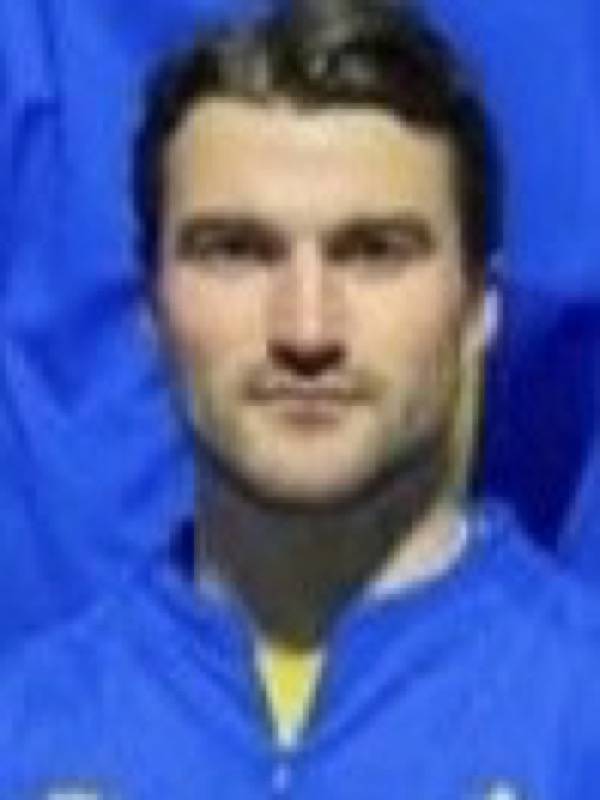
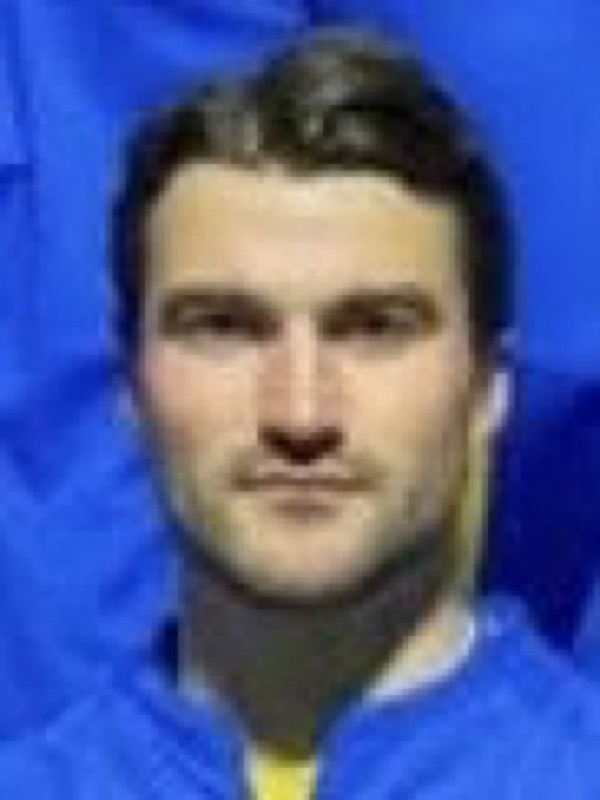
upd kamptropp bane visning kort

diff --git a/assets/js/pages/matches.js b/assets/js/pages/matches.js
@@ -776,6 +776,104 @@ function getMatchGamePlanPositionBadgeLabel(posId) {
     return posId;
 }
 
+function getMatchDetailPositionCategory(pos1) {
+    if (!pos1) return null;
+    const normalized = String(pos1).trim();
+    if (normalized === 'Keeper' || normalized.toLowerCase().includes('keeper')) return 'K';
+    if (['Høyre bekk', 'Venstre bekk', 'Høyre stopper', 'Venstre stopper'].includes(normalized)) return 'F';
+    if (['Spiss', 'Høyre kant', 'Venstre kant'].includes(normalized)) return 'A';
+    return 'M';
+}
+
+function getMatchDetailAttendingPlayers(match) {
+    const teamPlayers = (window.activePlayers || [])
+        .filter(p => p.status !== 'Passiv' && (!match.matchGroup || p.spillerLag === match.matchGroup))
+        .sort((a, b) => (Number(a.drakt) || 999) - (Number(b.drakt) || 999) || a.navn.localeCompare(b.navn));
+    const attendingRefs = typeof window.getMatchParticipantRefs === 'function'
+        ? window.getMatchParticipantRefs(match)
+        : window.getAttendingPlayerRefs(match.attendance);
+    const benchPlayers = teamPlayers
+        .filter(p => attendingRefs.some(ref => window.playerRefMatches(ref, p)))
+        .sort((a, b) => (Number(a.drakt) || 999) - (Number(b.drakt) || 999) || a.navn.localeCompare(b.navn));
+    const fallbackBenchPlayers = attendingRefs
+        .filter(ref => !benchPlayers.some(p => window.playerRefMatches(ref, p)))
+        .sort((a, b) => window.getPlayerNameFromRef(a).localeCompare(window.getPlayerNameFromRef(b)))
+        .map(ref => ({ navn: window.getPlayerNameFromRef(ref), drakt: '' }));
+
+    return [...benchPlayers, ...fallbackBenchPlayers];
+}
+
+function getMatchGamePlanPlayerPitchPosId(match, player) {
+    const lineup = getMatchGamePlanDraftLineup(match);
+    const entry = Object.entries(lineup).find(([, lineupPlayer]) => matchGamePlanSamePlayer(lineupPlayer, player));
+    return entry ? entry[0] : '';
+}
+
+function buildMatchBenchPlayerHtml(match, player) {
+    const jersey = player.drakt ? `#${escapeMatchHtml(player.drakt)}` : '';
+    const lastName = getMatchGamePlanPlayerLastName(player);
+    const photoUrl = getMatchGamePlanPlayerPhotoUrl(player);
+    const pitchPosId = getMatchGamePlanPlayerPitchPosId(match, player);
+    const isOnPitch = Boolean(pitchPosId);
+    const pitchCode = isOnPitch ? getMatchGamePlanPositionBadgeLabel(pitchPosId) : '';
+    const ariaLabel = isOnPitch
+        ? `${lastName}, på banen som ${pitchCode}`
+        : lastName;
+
+    return `
+        <div class="match-bench-player${isOnPitch ? ' is-on-pitch' : ''}"${isOnPitch ? ` data-pitch-pos="${escapeMatchHtml(pitchPosId)}"` : ''} aria-label="${escapeMatchHtml(ariaLabel)}">
+            <span class="match-game-plan-lineup-photo match-bench-photo" aria-hidden="true">
+                ${photoUrl
+                    ? `<img src="${escapeMatchHtml(photoUrl)}" alt="">`
+                    : '<i class="fa-solid fa-user" aria-hidden="true"></i>'}
+                ${isOnPitch ? `<span class="match-bench-pitch-overlay"><span class="match-bench-pitch-code">${escapeMatchHtml(pitchCode)}</span></span>` : ''}
+            </span>
+            <strong class="match-bench-name">${escapeMatchHtml(lastName)}</strong>
+            ${jersey ? `<span class="match-bench-number">${jersey}</span>` : ''}
+        </div>
+    `;
+}
+
+function buildMatchDetailSquadListHtml(match) {
+    const selectedPlayers = getMatchDetailAttendingPlayers(match);
+    const benchPositionRows = [
+        { key: 'keeper', label: 'Keeper', categories: ['K'], players: [] },
+        { key: 'defence', label: 'Forsvar', categories: ['F'], players: [] },
+        { key: 'midfield', label: 'Midtbane', categories: ['M'], players: [] },
+        { key: 'attack', label: 'Angrep', categories: ['A'], players: [] }
+    ];
+
+    selectedPlayers.forEach(player => {
+        const category = getMatchDetailPositionCategory(player.pos1) || 'M';
+        const row = benchPositionRows.find(positionRow => positionRow.categories.includes(category)) || benchPositionRows[2];
+        row.players.push(player);
+    });
+
+    if (!selectedPlayers.length) {
+        return `
+            <div class="match-bench-empty">
+                <i class="fa-solid fa-clipboard-user"></i>
+                <span>Ingen spillere er meldt på ennå.</span>
+            </div>
+        `;
+    }
+
+    return benchPositionRows.map(row => `
+        <section class="match-bench-group match-bench-group-${row.key}" aria-label="${escapeMatchHtml(row.label)}">
+            <div class="match-bench-group-title">${escapeMatchHtml(row.label)}</div>
+            <div class="match-bench-row">
+                ${row.players.map(player => buildMatchBenchPlayerHtml(match, player)).join('')}
+            </div>
+        </section>
+    `).join('');
+}
+
+function renderMatchDetailSquadList(match) {
+    const list = document.querySelector('.match-detail-squad-list');
+    if (!list || !match) return;
+    list.innerHTML = buildMatchDetailSquadListHtml(match);
+}
+
 function getMatchGamePlanRoleLabel(slot) {
     return matchGamePlanRoleLabels[slot] || slot;
 }
@@ -1357,6 +1455,7 @@ function renderMatchGamePlanStarter11Page(match) {
         wrapper.innerHTML = buildMatchGamePlanStarter11Html(match, 'match-detail-lineup-pitch-wrap').trim();
         wrap.replaceWith(wrapper.firstElementChild);
     });
+    renderMatchDetailSquadList(match);
 }
 
 function buildMatchGamePlanTabContentHtml(match, tab) {
@@ -1646,80 +1745,19 @@ window.showMatchDetails = function(id) {
     const container = document.getElementById('kampdetaljer-info');
     const escapeHtml = escapeMatchHtml;
     const escapeJsString = escapeMatchJsString;
-    const teamPlayers = (window.activePlayers || [])
-        .filter(p => p.status !== 'Passiv' && (!match.matchGroup || p.spillerLag === match.matchGroup))
-        .sort((a, b) => (Number(a.drakt) || 999) - (Number(b.drakt) || 999) || a.navn.localeCompare(b.navn));
     const attendingRefs = typeof window.getMatchParticipantRefs === 'function'
         ? window.getMatchParticipantRefs(match)
         : window.getAttendingPlayerRefs(match.attendance);
-    const benchPlayers = teamPlayers
-        .filter(p => attendingRefs.some(ref => window.playerRefMatches(ref, p)))
-        .sort((a, b) => (Number(a.drakt) || 999) - (Number(b.drakt) || 999) || a.navn.localeCompare(b.navn));
-    const fallbackBenchPlayers = attendingRefs
-        .filter(ref => !benchPlayers.some(p => window.playerRefMatches(ref, p)))
-        .sort((a, b) => window.getPlayerNameFromRef(a).localeCompare(window.getPlayerNameFromRef(b)))
-        .map(ref => ({ navn: window.getPlayerNameFromRef(ref), drakt: '' }));
-    const getPositionCategory = (pos1) => {
-        if (!pos1) return null;
-        const normalized = String(pos1).trim();
-        if (normalized === 'Keeper' || normalized.toLowerCase().includes('keeper')) return 'K';
-        if (['Høyre bekk', 'Venstre bekk', 'Høyre stopper', 'Venstre stopper'].includes(normalized)) return 'F';
-        if (['Spiss', 'Høyre kant', 'Venstre kant'].includes(normalized)) return 'A';
-        return 'M';
-    };
-    const selectedPlayers = [...benchPlayers, ...fallbackBenchPlayers];
     const positionCounts = { K: 0, F: 0, M: 0, A: 0 };
     attendingRefs.forEach(ref => {
         const player = typeof window.findPlayerByRef === 'function' ? window.findPlayerByRef(ref) : null;
-        const category = getPositionCategory(player?.pos1);
+        const category = getMatchDetailPositionCategory(player?.pos1);
         if (category) positionCounts[category] += 1;
     });
     const benchPositionHtml = ['K', 'F', 'M', 'A'].map(letter => (
         `${positionCounts[letter]}${letter}`
     )).join('<span class="dashboard-session-radar-sep"> - </span>');
-    const renderBenchPlayerHtml = (player) => {
-        const jersey = player.drakt ? `#${escapeHtml(player.drakt)}` : '';
-        const lastName = getMatchGamePlanPlayerLastName(player);
-        const photoUrl = getMatchGamePlanPlayerPhotoUrl(player);
-
-        return `
-            <div class="match-bench-player">
-                <span class="match-game-plan-lineup-photo match-bench-photo" aria-hidden="true">
-                    ${photoUrl
-                        ? `<img src="${escapeHtml(photoUrl)}" alt="">`
-                        : '<i class="fa-solid fa-user" aria-hidden="true"></i>'}
-                </span>
-                <strong class="match-bench-name">${escapeHtml(lastName)}</strong>
-                ${jersey ? `<span class="match-bench-number">${jersey}</span>` : ''}
-            </div>
-        `;
-    };
-    const benchPositionRows = [
-        { key: 'keeper', label: 'Keeper', categories: ['K'], players: [] },
-        { key: 'defence', label: 'Forsvar', categories: ['F'], players: [] },
-        { key: 'midfield', label: 'Midtbane', categories: ['M'], players: [] },
-        { key: 'attack', label: 'Angrep', categories: ['A'], players: [] }
-    ];
-    selectedPlayers.forEach(player => {
-        const category = getPositionCategory(player.pos1) || 'M';
-        const row = benchPositionRows.find(positionRow => positionRow.categories.includes(category)) || benchPositionRows[2];
-        row.players.push(player);
-    });
-    const benchPlayersHtml = selectedPlayers.length
-        ? benchPositionRows.map(row => `
-            <section class="match-bench-group match-bench-group-${row.key}" aria-label="${escapeHtml(row.label)}">
-                <div class="match-bench-group-title">${escapeHtml(row.label)}</div>
-                <div class="match-bench-row">
-                    ${row.players.map(renderBenchPlayerHtml).join('')}
-                </div>
-            </section>
-        `).join('')
-        : `
-            <div class="match-bench-empty">
-                <i class="fa-solid fa-clipboard-user"></i>
-                <span>Ingen spillere er meldt på ennå.</span>
-            </div>
-        `;
+    const benchPlayersHtml = buildMatchDetailSquadListHtml(match);
     const openPanel = window.pendingMatchDetailsOpenPanel || window.activeMatchDetailsOpenPanel || '';
     const isGamePlanOpen = openPanel === 'kampplan';
     window.pendingMatchDetailsOpenPanel = null;

diff --git a/assets/css/base.css b/assets/css/base.css
@@ -7134,7 +7134,39 @@
             height: auto;
             margin-bottom: 0;
             min-height: 0;
+            position: relative;
             width: 100%;
+        }
+        .match-detail-squad-list .match-bench-player.is-on-pitch .match-bench-photo img,
+        .match-detail-squad-list .match-bench-player.is-on-pitch .match-bench-photo i {
+            filter: saturate(0.55) brightness(0.72);
+            opacity: 0.42;
+            transition: filter 140ms ease, opacity 140ms ease;
+        }
+        .match-bench-pitch-overlay {
+            align-items: center;
+            display: none;
+            inset: 0;
+            justify-content: center;
+            pointer-events: none;
+            position: absolute;
+            z-index: 1;
+        }
+        .match-detail-squad-list .match-bench-player.is-on-pitch .match-bench-pitch-overlay {
+            display: flex;
+        }
+        .match-bench-pitch-code {
+            color: #ffffff;
+            font-size: 0.92rem;
+            font-weight: 950;
+            letter-spacing: 0.04em;
+            line-height: 1;
+            text-shadow: 0 2px 10px rgba(2, 6, 23, 0.55);
+        }
+        @media (min-width: 1024px) {
+            .match-bench-pitch-code {
+                font-size: 1.05rem;
+            }
         }
         .match-bench-name {
             color: #123f73;

diff --git a/index.html b/index.html
@@ -15,7 +15,7 @@
 
     <script src="assets/js/config/tailwind.config.js"></script>
     <script src="https://cdn.tailwindcss.com"></script>
-    <link rel="stylesheet" href="assets/css/base.css?v=20260701-lineup-pos-badge-v9">
+    <link rel="stylesheet" href="assets/css/base.css?v=20260702-squad-pitch-overlay-v1">
 </head>
 <body class="flex flex-col md:flex-row min-h-screen text-slate-800">
     <div id="portal-sidebar"></div>
@@ -1110,7 +1110,7 @@
     <script src="assets/js/domain/scoring.js"></script>
     <script src="assets/js/domain/club-logos.js?v=20260627-oldenborg"></script>
     <script src="assets/js/pages/players.js?v=20260630-roster-player-avatars-v1"></script>
-    <script src="assets/js/pages/matches.js?v=20260701-lineup-pos-badge-v8"></script>
+    <script src="assets/js/pages/matches.js?v=20260702-squad-pitch-overlay-v1"></script>
     <script src="assets/js/pages/attendance.js?v=20260628-calendar-match-detail-v6"></script>
     <script src="assets/js/pages/statistics.js?v=20260629-stats-playerdata-card-meta-v1"></script>
     <script src="assets/js/pages/tactics.js?v=20260630-lineuprefs-v1"></script>
